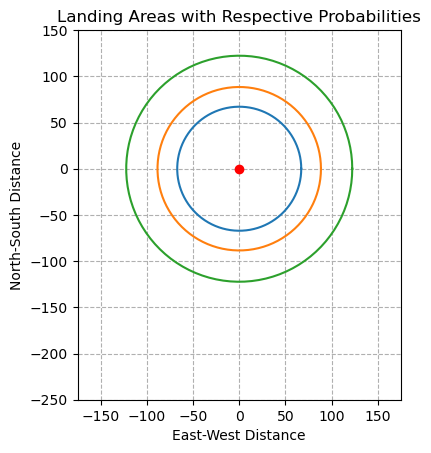
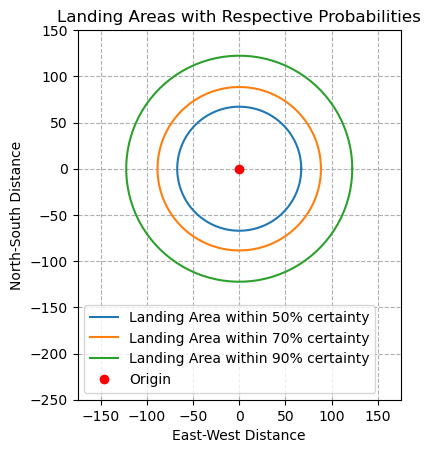
4.2.2,3,4 coded, untested. 5.1, 5.2.1,2,3,4 coded, untested.

Changed region(s): [[0.2111, 0.649, 0.8747, 0.8653], [0.181, 0.7417, 0.2715, 0.8653]]

diff --git a/Project 3/MonteCarlo.py b/Project 3/MonteCarlo.py
@@ -4,25 +4,27 @@
 
 import matplotlib.pyplot as plt
 import numpy as np
+from statistics import NormalDist
+import pandas as pd
 
 # 1) and 2) are irrelevant to the code, being the assignment and problem statements respectively
 
 # 3) MODEL ANALYSIS
-# OBJECTIVE 1: Gain an understanding of th drop error model.
+# OBJECTIVE 1: Gain an understanding of the drop error model.
 
-tau = 57                            # Standard Deviation of drop point in inches
-a = 1/tau                           # Scale Parameter
+tau = 57  # Standard Deviation of drop point in inches
+a = 1 / tau  # Scale Parameter
 
-x = np.linspace(0, 350, 1000)       # Axes Values
+x = np.linspace(0, 350, 1000)  # Axes Values
 
 # 3.1) Graph of f_X
 
-pdf = a**2 * x * np.e**(-.5*a**2 * x**2)
+pdf = a ** 2 * x * np.e ** (-.5 * a ** 2 * x ** 2)
 plt.plot(x, pdf, label='f_X (x)')  # Plot some data on the (implicit) axes.
 plt.xlabel('Drop Distance x')
 plt.ylabel('Probability Density')
-plt.xlim(0, x.max()*1.1)
-plt.ylim(0, pdf.max()*1.1)
+plt.xlim(0, x.max() * 1.1)
+plt.ylim(0, pdf.max() * 1.1)
 plt.title("PDF of X")
 plt.legend()
 plt.savefig("pdf_X.png", bbox_inches='tight')
@@ -30,11 +32,11 @@ plt.show()
 
 # 3.2) Graph of F_X
 
-cdf = 1 - np.e**(-.5*a**2 * x**2)
+cdf = 1 - np.e ** (-.5 * a ** 2 * x ** 2)
 plt.plot(x, cdf, label='F_X (x)')  # Plot some data on the (implicit) axes.
 plt.xlabel('Drop Distance x')
 plt.ylabel('Cumulative Probability')
-plt.xlim(0, x.max()*1.1)
+plt.xlim(0, x.max() * 1.1)
 plt.ylim(0, 1)
 plt.title("CDF of X")
 plt.legend()
@@ -43,8 +45,8 @@ plt.show()
 
 # 3.3) Graph of Three Circles
 
-p = np.array([0.5, 0.7, 0.9])                   # the probabilities that will give the radii
-x_p = np.sqrt(-2 * np.log(-1*p + 1) / a ** 2)   # the radii for the three circles
+p = np.array([0.5, 0.7, 0.9])  # the probabilities that will give the radii
+x_p = np.sqrt(-2 * np.log(-1 * p + 1) / a ** 2)  # the radii for the three circles
 
 t = [0, 0]
 print('The values of x_p are:')
@@ -52,16 +54,16 @@ print('for p = ' + str(p[0]) + ', x_p = ' + str(x_p[0]) + ' inches')
 print('for p = ' + str(p[1]) + ', x_p = ' + str(x_p[1]) + ' inches')
 print('for p = ' + str(p[2]) + ', x_p = ' + str(x_p[2]) + ' inches')
 
-theta = np.linspace(0, 2*np.pi, 100)
+theta = np.linspace(0, 2 * np.pi, 100)
 
-c1_x = x_p[0]*np.cos(theta)
-c1_y = x_p[0]*np.sin(theta)
+c1_x = x_p[0] * np.cos(theta)
+c1_y = x_p[0] * np.sin(theta)
 
-c2_x = x_p[1]*np.cos(theta)
-c2_y = x_p[1]*np.sin(theta)
+c2_x = x_p[1] * np.cos(theta)
+c2_y = x_p[1] * np.sin(theta)
 
-c3_x = x_p[2]*np.cos(theta)
-c3_y = x_p[2]*np.sin(theta)
+c3_x = x_p[2] * np.cos(theta)
+c3_y = x_p[2] * np.sin(theta)
 
 fig, ax = plt.subplots(1)
 
@@ -92,12 +94,49 @@ plt.show()
 # 4.2.1) Design a Monte-Carlo simulation algorithm
 # TODO: Bruce
 
+def monte_carlo(*args):
+    pass
+
+
 # 4.2.2) Simulate the outcomes of many deliveries of newspaper via a drone by generating
 # independent realizations of X
 
 # 4.2.3) Calculate 110 independent estimates of the sample mean for the seven sample sizes
 
 # 4.2.4) Make a graph of all the estimates
+
+n_vec1 = [10, 30, 50, 100, 250, 500, 1000]
+abscissa1 = []
+ordinate1 = []
+
+
+def sample_mean(count):
+    x_vec = []
+    for i in range(1, count):
+        x_vec.append(monte_carlo(i))
+
+    return sum(x_vec) / count
+
+
+for n in n_vec1:
+    for index in range(1, 110):
+        abscissa1.append(n)
+        ordinate1.append(sample_mean(n))
+
+mu_x = 1/a * np.sqrt(np.pi/2)
+
+ax.plot(abscissa1, ordinate1, label='M_n')
+ax.plot(abscissa1, mu_x, label='Population Mean')
+
+plt.xlabel('Sample Size (n)')
+plt.ylabel('Sample Mean (M_n)')
+plt.title('Landing Areas with Respective Probabilities', fontsize=12)
+# plt.xlim(-175, 175)
+# plt.ylim(-250, 150)
+plt.grid(linestyle='--')
+plt.legend()
+plt.savefig("M_n.png", bbox_inches='tight')
+plt.show()
 
 # 4.2.5,6,7 may not require any coding, but if they do, they can go here.
 
@@ -108,9 +147,82 @@ plt.show()
 
 # 5.2) Experiment
 
-# 5.2.1) Prepare samples for the analyses.
+# 5.2.1) Prepare samples for the analyses and
+# 5.2.2) Perform Analyses
 
-# 5.2.2) Perform Analyses [the substeps will be within a loop
+n_vec2 = [5, 10, 15, 30]
+K = 550
+k_vec = range(1, K)
+
+phi_abscissa = np.linspace(-2.5, 2.5, K)
+phi = []
+for phi_i in phi_abscissa:
+    phi.append(NormalDist().cdf(phi_i))
+
+for n in n_vec2:
+    abscissa2 = []
+    ordinate2 = []
+    m_n = []
+    z_n = []
+    F_n = []
+    MAD = 0
+
+    # Prepare samples (5.2.1)
+    for k in k_vec:
+        m_n.append(sample_mean(n))
+
+    # 5.2.2.1 calculate the estimates of the mean and variance of M_n
+    mean = sum(m_n)/K
+    variance = sum(np.subtract(np.power(m_n, 2), mean**2)) / K
+
+    # 5.2.2.2 transform the sample of M_n into a sample of the standardized random variable Z_n
+    z_n = np.divide(np.subtract(m_n, mean), variance)
+    z_n_sorted = sorted(z_n)
+
+    # 5.2.2.3 estimate from the sample of Z_n the probabilities of seven events
+    z_j = [-1.4, -1.0, -0.5, 0, 1.0, 1.4]
+
+    for j in range(0, 6) :
+        # find percentage of z_n values less than or equal to z_j
+        counter = 0
+        for z in z_n_sorted:
+            if z <= z_j[j]:
+                counter += 1
+            else:
+                break
+
+        F_n.append(counter/K)
+
+        # 5.2.2.4 Evaluate the goodness-of-fit using the MAD
+        MAD_j = abs(F_n[j] - NormalDist.cdf(z_j[j]))
+
+        if MAD_j > MAD:
+            MAD = MAD_j
+
+    # 5.2.2.5 Draw a figure showing:
+
+    # i) the seven points {(z_j, F_n(z_j)) : j = 1, ... ,7}
+    ax.plot(z_j, F_n, label='F_n(z_j)')
+
+    # ii) The standard normal cdf phi
+    ax.plot(phi_abscissa, phi, label='Phi(z)')
+
+    # iii) The MAD as a highlighted interval of probability (ordinate at point z_j at which it
+    # occurs (abscissa)
+    ax.plot(abscissa1, ordinate1, label='M_n')
+
+    # And make it look nice :)
+    plt.xlabel('Z')
+    plt.ylabel('Probability')
+    plt.title('Landing Areas with Respective Probabilities', fontsize=12)
+    # plt.xlim(-175, 175)
+    # plt.ylim(-250, 150)
+    plt.grid(linestyle='--')
+    plt.legend()
+    plt.savefig("M_n.png", bbox_inches='tight')
+    plt.show()
+
+
 
 
 
